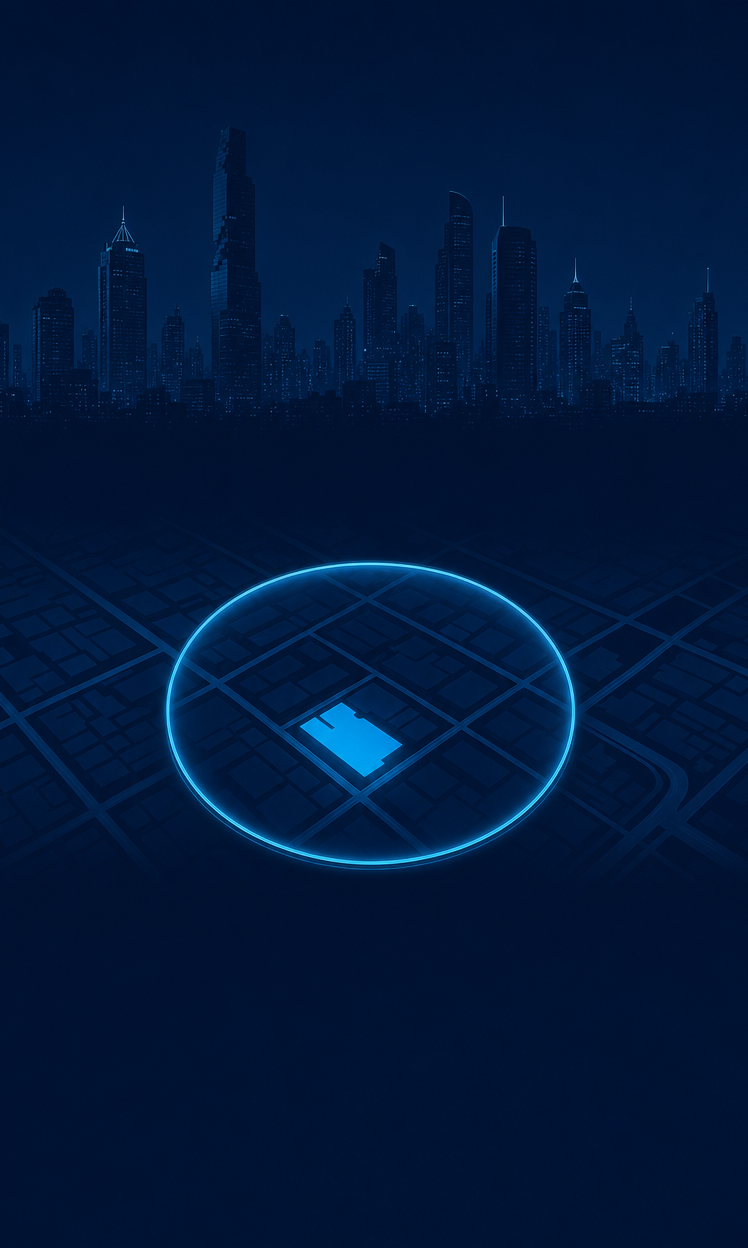
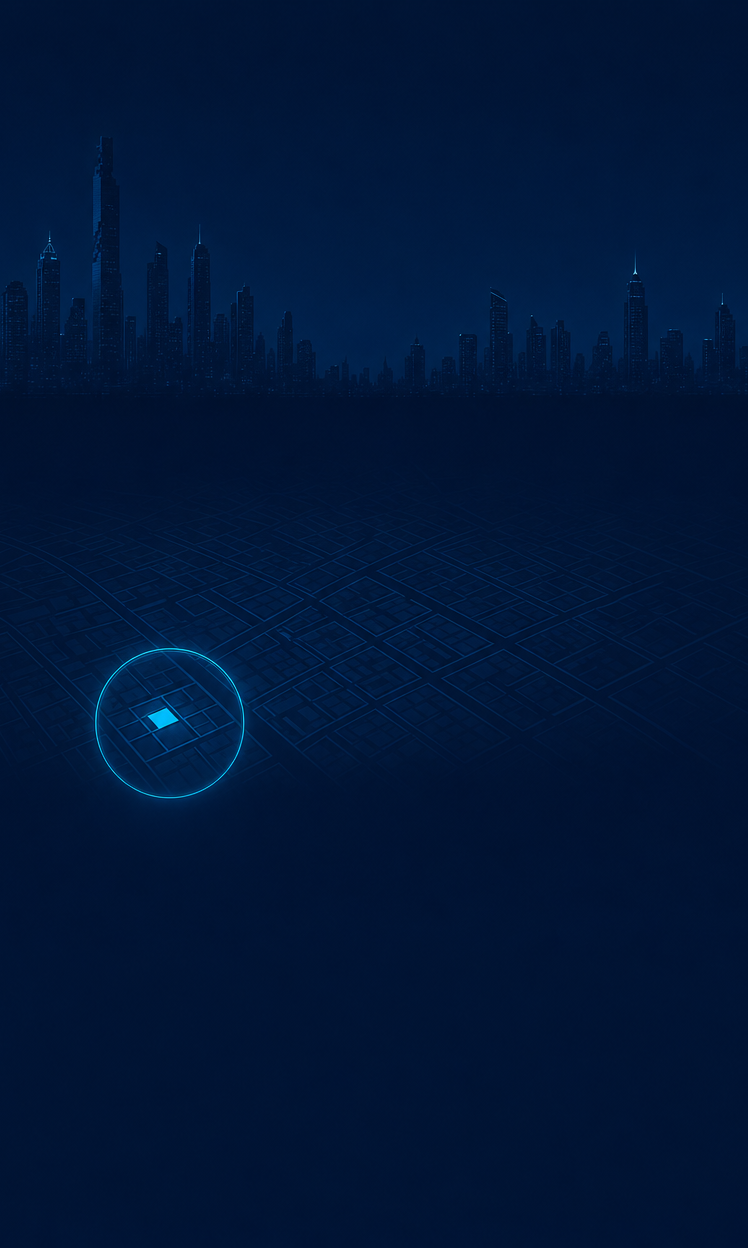
Add audience value-map slide 4: seat-by-seat 80/20 with stop chips
New audience_map template: four attendee segments (BD/corp dev, IR and
listed-company leaders, owners, investors/advisors) each with a one-line
payoff and six route-map stop chips (key stop in cyan). Quiet footer band
offers tailored private sessions for leadership teams. Speaker notes
renumbered for the insertion. Divider art set complete (7 panels), more
icons processed.

Claude-Session: https://claude.ai/code/session_01XGRxbM3B7zLFZ8pxEtSAVt

diff --git a/webinar/build_deck.py b/webinar/build_deck.py
@@ -100,6 +100,37 @@ b.add("route_map", **S("Agenda"),
           {"keyword": "NEXT STEP", "descriptor": "What to do tomorrow morning"},
       ])
 
+b.add("audience_map", **S("Welcome"),
+      title="Whatever brought you here, tonight has a lane for you",
+      takeaway="Stay for all six stops. These are the ones that pay your seat back first.",
+      rows=[
+          {"icon": _ic("target"), "who": "BD & corporate development",
+           "detail": "logistics · manufacturing · F&B",
+           "value": "A build-vs-buy case for your growth plan, and Max Data's "
+                    "registry intelligence and director network to power your "
+                    "pipeline.",
+           "stops": [1, 3, 4], "key_stop": 3},
+          {"icon": _ic("book"), "who": "IR & listed-company leaders",
+           "detail": "market narrative for boards and investors",
+           "value": "A data-backed read on the Thai market, and the M&A "
+                    "growth story your investors are starting to ask about.",
+           "stops": [1, 3, 5], "key_stop": 1},
+          {"icon": _ic("storefront"), "who": "Owners & founders",
+           "detail": "exit, succession, or just curious",
+           "value": "What buyers check first, what your business is worth, "
+                    "and how a quiet, well-run exit actually happens.",
+           "stops": [2, 4, 6], "key_stop": 2},
+          {"icon": _ic("handshake"), "who": "Investors, advisors & explorers",
+           "detail": "first deal or fiftieth",
+           "value": "Where real deal flow surfaces, proof the model pays, "
+                    "and how the referral economy around it works.",
+           "stops": [3, 5, 6], "key_stop": 3},
+      ],
+      offer="Leading a team with one industry and one goal? We run tailored "
+            "private sessions for leadership teams. Ask us after Q&A, or book "
+            "with the QR at the end.",
+      source="Registered attendee mix, July 2026")
+
 b.add("speaker_panels", **S("Welcome"),
       title="Your guides tonight",
       speakers=[
@@ -848,52 +879,53 @@ NOTES = {
     1: "Doors open 20:25, greet people by name in chat. Start 20:32 sharp. [T+0:00]",
     2: "Launch poll 1 immediately, read the options aloud. Tease: 'we'll tailor the examples to tonight's mix.' About 2 minutes. [T+0:02]",
     3: "One breath per stop. The promise: 'by the end you'll know where deals come from, how to judge one, and your first step.' [T+0:05]",
-    4: "30 seconds each. Max: keep the founder story to ONE line here, the full beat comes at slide 17. [T+0:06]",
-    5: "Section 1 · WHY NOW. Budget 14 minutes. [T+0:07]",
-    6: "Big line: 'COVID knocked four trillion baht off the market. The recovery ran at nine percent a year.'",
-    7: "Pause on the gold factoid. Chat prompt: 'type your industry in the chat.'",
-    8: "Frame positively: weak segments are where motivated sellers live. Don't dwell, next slide is the room's own sectors.",
-    9: "This room's four sectors. Logistics people: 9,399 mid-market targets is YOUR number. Move briskly, the drill-down is next.",
-    10: "The nuance slide: growth and profit are different places in logistics. 3PL is the clean story; couriers grew broke. 90 seconds.",
-    11: "One hero, three runners. Pet food is the 'growth AND margin' proof. Mention the artifact-stripping line: that's analyst rigor.",
-    12: "90 seconds max. The room knows this distinction, it's a bridge slide.",
-    13: "Key claim: SME deals pay back in 3-8 years vs 10+ for mega-deals. Japan's 16x growth is the evidence the wave is real.",
-    14: "Credibility beat: this is KPMG data published last month. Note: headlines are big-cap, our layer is the SME market below them.",
-    15: "SLOW DOWN. This is the screenshot slide. Read the stat twice. 'No one else in Thailand can compute this number.'",
-    16: "Public-record confirmation of our registry finding. The Japan tile is the preview of Thailand's next decade.",
-    17: "Founding story, 45 seconds max. Read the quote, add one personal line, move on. [T+0:21]",
-    18: "Section 2 · WHAT GOOD LOOKS LIKE. Budget 14 minutes. [T+0:21]",
-    19: "Launch poll 2. Callback comes at the Red 3 slide: most people vote financials, and financials is where deals die.",
-    20: "One concrete example per flag. Ask chat: 'which of these do you weight most?'",
-    21: "One short war story per risk if time allows. Two-books gets its own slide next.",
-    22: "Sensitive topic, phrase carefully: 'a common practice, and fixable in diligence', never accusatory.",
-    23: "Tell viewers to screenshot this one. It's also in the replay materials.",
-    24: "Section 3 · WHERE DEALS COME FROM. Budget 12 minutes. [T+0:35]",
-    25: "Walk the cascade slowly. 'Only 1 in 18 companies sits in the core band' lands well.",
-    26: "Two minutes max, this is setup for the ladder.",
-    27: "Our ecosystem. Not a pitch: the first two doors are free to open tonight.",
-    28: "Screenshot shown is an illustrative preview; show the real Facebook group live if the connection allows.",
-    29: "This is the REAL dealflowmarket.com, captured this week. Pick one listing that matches the poll-1 mix, talk 30 seconds.",
-    30: "Position Max Data as the research layer under every stage, not another listing site.",
-    31: "DEMO MOMENT. Recorded fallback ready. Filter: Logistics, ฿10M-1B revenue → 9,399 companies on screen. [T+0:45]",
-    32: "Section 4 · HOW A DEAL RUNS. Budget 8 minutes. [T+0:47]",
-    33: "Walk the six steps in about 4 minutes. Add the LOI + deposit nuance from real deals.",
-    34: "Sellers: 60 seconds. Full sell-side detail is in the appendix and on the website.",
-    35: "Section 5 · PROOF. Budget 13 minutes. [T+0:55]",
-    36: "Launch poll 3. Use the result to decide which case to emphasize.",
-    37: "The pipeline slide. Read one profile aloud slowly. 'Fourteen thousand of these.' Then: 'so who's buying them?'",
-    38: "Let 35.1% breathe. Then: 'this playbook is arriving in Thailand.'",
-    39: "Tell it as a story: the couple, no successor, the sharp buyer, the New Year visit where everyone was happy.",
-    40: "Contrast case: foreign buyer, end-to-end process, now doubling turnover.",
-    41: "Generalize the pattern: succession + inefficiency + capable buyer.",
-    42: "Callback to the demo: 'your edge is seeing what others cannot.' [T+1:06]",
-    43: "Section 6 · YOUR NEXT STEP. Budget 6 minutes. [T+1:08]",
-    44: "Three take-homes. Second screenshot moment.",
-    45: "THE ask. Type 1 (buy) / 2 (sell) / 3 (refer), scan QR, or add LINE. Say it twice. QR stays up through Q&A. [T+1:10]",
-    46: "About 20 minutes. Seed questions ready: 'what multiples do Thai SMEs sell for?', 'can foreigners buy?', 'how long does a deal take?'",
-    47: "Personal beat. Read the groups briskly and warmly, then slow right down for the last line. Look at the camera for Pim's line.",
-    48: "Mention the replay and community link land in tomorrow's follow-up email.",
-    49: "Appendix: replay material. Skip live unless Q&A pulls them up.",
+    4: "Tie back to poll 1: 'here's your row.' One line per seat, under a minute total. Plant the tailored-session offer casually, don't sell it. [T+0:06]",
+    5: "30 seconds each. Max: keep the founder story to ONE line here, the full beat comes at slide 17. [T+0:06]",
+    6: "Section 1 · WHY NOW. Budget 14 minutes. [T+0:07]",
+    7: "Big line: 'COVID knocked four trillion baht off the market. The recovery ran at nine percent a year.'",
+    8: "Pause on the gold factoid. Chat prompt: 'type your industry in the chat.'",
+    9: "Frame positively: weak segments are where motivated sellers live. Don't dwell, next slide is the room's own sectors.",
+    10: "This room's four sectors. Logistics people: 9,399 mid-market targets is YOUR number. Move briskly, the drill-down is next.",
+    11: "The nuance slide: growth and profit are different places in logistics. 3PL is the clean story; couriers grew broke. 90 seconds.",
+    12: "One hero, three runners. Pet food is the 'growth AND margin' proof. Mention the artifact-stripping line: that's analyst rigor.",
+    13: "90 seconds max. The room knows this distinction, it's a bridge slide.",
+    14: "Key claim: SME deals pay back in 3-8 years vs 10+ for mega-deals. Japan's 16x growth is the evidence the wave is real.",
+    15: "Credibility beat: this is KPMG data published last month. Note: headlines are big-cap, our layer is the SME market below them.",
+    16: "SLOW DOWN. This is the screenshot slide. Read the stat twice. 'No one else in Thailand can compute this number.'",
+    17: "Public-record confirmation of our registry finding. The Japan tile is the preview of Thailand's next decade.",
+    18: "Founding story, 45 seconds max. Read the quote, add one personal line, move on. [T+0:21]",
+    19: "Section 2 · WHAT GOOD LOOKS LIKE. Budget 14 minutes. [T+0:21]",
+    20: "Launch poll 2. Callback comes at the Red 3 slide: most people vote financials, and financials is where deals die.",
+    21: "One concrete example per flag. Ask chat: 'which of these do you weight most?'",
+    22: "One short war story per risk if time allows. Two-books gets its own slide next.",
+    23: "Sensitive topic, phrase carefully: 'a common practice, and fixable in diligence', never accusatory.",
+    24: "Tell viewers to screenshot this one. It's also in the replay materials.",
+    25: "Section 3 · WHERE DEALS COME FROM. Budget 12 minutes. [T+0:35]",
+    26: "Walk the cascade slowly. 'Only 1 in 18 companies sits in the core band' lands well.",
+    27: "Two minutes max, this is setup for the ladder.",
+    28: "Our ecosystem. Not a pitch: the first two doors are free to open tonight.",
+    29: "Screenshot shown is an illustrative preview; show the real Facebook group live if the connection allows.",
+    30: "This is the REAL dealflowmarket.com, captured this week. Pick one listing that matches the poll-1 mix, talk 30 seconds.",
+    31: "Position Max Data as the research layer under every stage, not another listing site.",
+    32: "DEMO MOMENT. Recorded fallback ready. Filter: Logistics, ฿10M-1B revenue → 9,399 companies on screen. [T+0:45]",
+    33: "Section 4 · HOW A DEAL RUNS. Budget 8 minutes. [T+0:47]",
+    34: "Walk the six steps in about 4 minutes. Add the LOI + deposit nuance from real deals.",
+    35: "Sellers: 60 seconds. Full sell-side detail is in the appendix and on the website.",
+    36: "Section 5 · PROOF. Budget 13 minutes. [T+0:55]",
+    37: "Launch poll 3. Use the result to decide which case to emphasize.",
+    38: "The pipeline slide. Read one profile aloud slowly. 'Fourteen thousand of these.' Then: 'so who's buying them?'",
+    39: "Let 35.1% breathe. Then: 'this playbook is arriving in Thailand.'",
+    40: "Tell it as a story: the couple, no successor, the sharp buyer, the New Year visit where everyone was happy.",
+    41: "Contrast case: foreign buyer, end-to-end process, now doubling turnover.",
+    42: "Generalize the pattern: succession + inefficiency + capable buyer.",
+    43: "Callback to the demo: 'your edge is seeing what others cannot.' [T+1:06]",
+    44: "Section 6 · YOUR NEXT STEP. Budget 6 minutes. [T+1:08]",
+    45: "Three take-homes. Second screenshot moment.",
+    46: "THE ask. Type 1 (buy) / 2 (sell) / 3 (refer), scan QR, or add LINE. Say it twice. QR stays up through Q&A. [T+1:10]",
+    47: "About 20 minutes. Seed questions ready: 'what multiples do Thai SMEs sell for?', 'can foreigners buy?', 'how long does a deal take?'",
+    48: "Personal beat. Read the groups briskly and warmly, then slow right down for the last line. Look at the camera for Pim's line.",
+    49: "Mention the replay and community link land in tomorrow's follow-up email.",
+    50: "Appendix: replay material. Skip live unless Q&A pulls them up.",
 }
 
 for _i, _slide in enumerate(b.prs.slides, 1):

diff --git a/webinar/editorial_slides.py b/webinar/editorial_slides.py
@@ -869,6 +869,107 @@ def add_quote_breather(prs, *,
     return slide
 
 
+# ---------- 4 · audience value map ----------
+
+def add_audience_map(prs, *,
+                     title: str,
+                     takeaway: Optional[str] = None,
+                     rows: Sequence[dict],
+                     offer: Optional[str] = None,
+                     page_number=None, section_marker=None,
+                     source=None, footnote=None,
+                     theme: Theme = MAX_THEME):
+    """Seat-by-seat value map. rows: [{icon, who, detail, value,
+    stops:[1-6], key_stop}] — stops render as the six route-map circles with
+    the relevant ones lit and the single don't-miss stop in cyan."""
+    slide = blank_slide(prs)
+    add_chrome(slide, title=title, theme=theme, page_number=page_number,
+               section_marker=section_marker, source=source, footnote=footnote)
+    pal, typo, layout = theme.palette, theme.typography, theme.layout
+    if takeaway:
+        takeaway_line(slide, takeaway, theme)
+
+    ml = layout.margin_left_in
+    right = layout.slide_width_in - layout.margin_right_in
+    chips_x = 10.45
+    top = 1.72
+    # column headers
+    for x, label in ((ml + 0.85, "WHO YOU ARE"),
+                     (4.55, "TONIGHT'S 80/20"),
+                     (chips_x, "YOUR STOPS")):
+        tb = add_textbox(slide, x, top, 2.6, 0.26)
+        write_paragraph(tb.text_frame, label, size=typo.small_size,
+                        color=pal.footer_gray, family=typo.family, first=True)
+    add_line(slide, ml, top + 0.34, right, top + 0.34,
+             color=pal.dark_navy, width_pt=1.0)
+
+    row_h = 0.96
+    y = top + 0.44
+    for i, r in enumerate(rows):
+        cy = y + row_h / 2
+        if r.get("icon") and os.path.exists(r["icon"]):
+            slide_icon(slide, r["icon"], ml, cy - 0.29, 0.58)
+        tb = add_textbox(slide, ml + 0.85, cy - 0.42, 3.45, 0.5,
+                         anchor=MSO_ANCHOR.MIDDLE)
+        write_paragraph(tb.text_frame, r["who"], size=typo.body_size + 2,
+                        bold=True, color=pal.dark_navy, family=typo.family,
+                        first=True)
+        enable_text_shrink(tb.text_frame)
+        if r.get("detail"):
+            tb = add_textbox(slide, ml + 0.85, cy + 0.10, 3.45, 0.30)
+            write_paragraph(tb.text_frame, r["detail"],
+                            size=typo.small_size, color=pal.footer_gray,
+                            family=typo.family, first=True)
+            enable_text_shrink(tb.text_frame)
+        tb = add_textbox(slide, 4.55, cy - 0.44, 5.55, 0.92,
+                         anchor=MSO_ANCHOR.MIDDLE)
+        write_paragraph(tb.text_frame, r["value"], size=typo.body_size,
+                        color=pal.text_dark, family=typo.family, first=True)
+        enable_text_shrink(tb.text_frame)
+        # six stop circles, lit per row
+        d = 0.34
+        gap = 0.075
+        stops = set(r.get("stops", ()))
+        key_stop = r.get("key_stop")
+        for s_i in range(1, 7):
+            sx = chips_x + (s_i - 1) * (d + gap)
+            if s_i == key_stop:
+                fill, txt = pal.bright_blue, pal.white
+                add_oval(slide, sx, cy - d / 2, d, d, fill=fill)
+            elif s_i in stops:
+                fill, txt = pal.dark_navy, pal.white
+                add_oval(slide, sx, cy - d / 2, d, d, fill=fill)
+            else:
+                txt = pal.grid_gray
+                add_oval(slide, sx, cy - d / 2, d, d, fill=None,
+                         line=pal.grid_gray, line_width=1.0)
+            tb = add_textbox(slide, sx, cy - d / 2, d, d,
+                             anchor=MSO_ANCHOR.MIDDLE)
+            write_paragraph(tb.text_frame, str(s_i), size=typo.small_size,
+                            bold=True, color=txt, family=typo.family,
+                            align=PP_ALIGN.CENTER, first=True)
+        if i < len(rows) - 1:
+            add_line(slide, ml, y + row_h + 0.04, right, y + row_h + 0.04,
+                     color=pal.grid_gray, width_pt=0.75)
+        y += row_h + 0.08
+    # quiet tailored-session offer
+    if offer:
+        oy = y + 0.08
+        add_rect(slide, ml, oy, right - ml, 0.48, fill=None,
+                 line=pal.bright_blue, line_width=1.0)
+        icon = f"{ASSETS}/gen/icons/people.png"
+        tx = ml + 0.25
+        if os.path.exists(icon):
+            slide_icon(slide, icon, ml + 0.18, oy + 0.09, 0.34)
+            tx = ml + 0.65
+        tb = add_textbox(slide, tx, oy, right - tx - 0.2, 0.48,
+                         anchor=MSO_ANCHOR.MIDDLE)
+        write_paragraph(tb.text_frame, offer, size=typo.body_size,
+                        color=pal.dark_navy, family=typo.family, first=True)
+        enable_text_shrink(tb.text_frame)
+    return slide
+
+
 # ---------- 20 · Green 5 chevron signal bar ----------
 
 def add_chevron_flags(prs, *,
@@ -1731,6 +1832,7 @@ def add_method_grid(prs, *,
 
 _REGISTRY.update({
     "art_divider": add_art_divider,
+    "audience_map": add_audience_map,
     "route_map": add_route_map,
     "speaker_panels": add_speaker_panels,
     "hbar_ranked": add_hbar_ranked,
